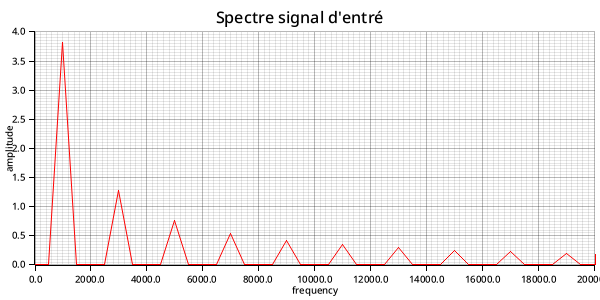
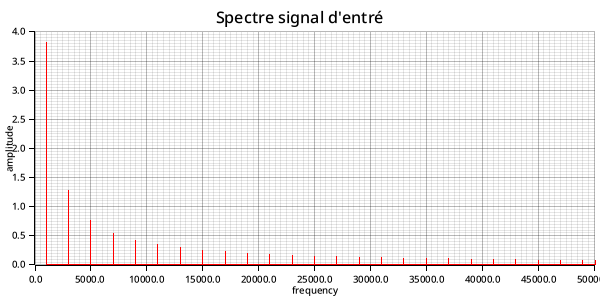
[CN5]: fix phase (for low,high,stop pass) so now everything finally works as expected for all filter!

diff --git a/CN_5_effet_filtrage/src/filtrage.rs b/CN_5_effet_filtrage/src/filtrage.rs
@@ -3,7 +3,7 @@ use std::{f64::consts::PI, ops::Range};
 use crate::{
     fft::{compute_fft, evaluation_point, generate_signal, FFTResult, XyScatter},
     filtre::{FiltreCaracteristique, FiltreTrait},
-    plot::draw_plot,
+    plot::{draw_fft, draw_plot},
 };
 
 pub struct FiltrageReport {
@@ -24,22 +24,17 @@ pub fn filtrage<T: FiltreTrait>(
     n: usize,
     width_graph: &Range<f64>,
     width_frequence: &Range<f64>,
-    dephasage: bool,
     offset: Option<f64>,
 ) -> FiltrageReport {
     let signal_in = evaluation_point(n, width_graph, signal);
-    let FFTResult {
-        fft_amp: fft_in,
-        peaks,
-        ..
-    } = compute_fft(&signal_in, width_graph);
+    let FFTResult { peaks: fft_in, .. } = compute_fft(&signal_in, width_graph);
 
-    let out_signal_info = peaks
-        .into_iter()
-        .map(|(_, (f, amp))| {
+    let out_signal_info = fft_in
+        .iter()
+        .map(|&(f, amp)| {
             let amp_out = amp * filtre.gain_at(f);
             let phase_out = filtre.phase_at(f);
-            (f, amp_out, if dephasage { phase_out } else { 0.0 })
+            (f, amp_out, phase_out)
         })
         .collect::<Vec<_>>();
 
@@ -47,14 +42,14 @@ pub fn filtrage<T: FiltreTrait>(
     let signal_out = evaluation_point(n, width_graph, &signal_out_func);
     let fft_res_out = compute_fft(&signal_out, width_graph);
 
-    let gain_graph = filtre.gain_graph(n, width_frequence); // range should be the same as the frequence max
+    let gain_graph = filtre.gain_graph(n, width_frequence);
     let phase_graph = filtre.phase_graph(n, width_frequence);
 
     FiltrageReport {
         signal_input: signal_in,
         signal_ouput: signal_out,
         fft_input: fft_in,
-        fft_output: fft_res_out.fft_amp,
+        fft_output: fft_res_out.peaks,
         gain_graph,
         phase_graph,
         filtre_caracteristique: filtre.get_caracteristique(),
@@ -78,22 +73,18 @@ pub fn draw_filtrage(report: &FiltrageReport) {
         vec![&report.signal_input, &report.signal_ouput],
     )
     .expect("Failed to plot");
-    draw_plot(
+    draw_fft(
         "filtrage/fft_in.png",
         "Spectre signal d'entré",
         report.width_frequence.clone(),
-        ("frequency", "amplitude"),
-        Some((600, 300)),
-        vec![&report.fft_input],
+        &report.fft_input,
     )
     .expect("Failed to plot");
-    draw_plot(
+    draw_fft(
         "filtrage/fft_out.png",
         "Spectre signal de sortie",
         report.width_frequence.clone(),
-        ("frequency", "amplitude"),
-        Some((600, 300)),
-        vec![&report.fft_output],
+        &report.fft_output,
     )
     .expect("Failed to plot");
     draw_plot(
@@ -106,8 +97,22 @@ pub fn draw_filtrage(report: &FiltrageReport) {
         ),
         report.width_frequence.clone(),
         ("frequency", "gain"),
-        None,
+        Some((600, 300)),
         vec![&report.gain_graph],
+    )
+    .expect("Failed to plot");
+    draw_plot(
+        "filtrage/phase.png",
+        &format!(
+            "Phase du filtre {:?} avec f0={}Hz Q={}",
+            report.filtre_caracteristique.filtre_type,
+            (report.filtre_caracteristique.omega0 / (2.0 * PI)).round(),
+            report.filtre_caracteristique.q,
+        ),
+        report.width_frequence.clone(),
+        ("frequency", "phase"),
+        Some((600, 300)),
+        vec![&report.phase_graph],
     )
     .expect("Failed to plot");
 }

diff --git a/CN_5_effet_filtrage/src/main.rs b/CN_5_effet_filtrage/src/main.rs
@@ -28,16 +28,8 @@ fn main() {
     const N: usize = 2_usize.pow(14) - 1;
     const WIDTH: Range<f64> = 0.0..0.002;
     let in_signal = generate_square_wave(1000.0, -2.0..4.0);
-    let filtre = FiltreRejecteur::new(1.0, 1.0 * 1000.0, 0.2);
-    let report = filtrage(
-        &in_signal,
-        &filtre,
-        N,
-        &WIDTH,
-        &(0.0..20_000.0),
-        false,
-        Some(1.0),
-    );
+    let filtre = FiltreRejecteur::new(1.0, 25.0 * 1000.0, 20.0);
+    let report = filtrage(&in_signal, &filtre, N, &WIDTH, &(0.0..50_000.0), Some(1.0));
     draw_filtrage(&report);
 }
 
@@ -49,10 +41,7 @@ fn test_square_from_fft() {
     let FFTResult { peaks, .. } = compute_fft(&signal_in, &WIDTH);
 
     let signal_out_func = generate_signal(
-        peaks
-            .into_iter()
-            .map(|(_, (f, amp))| (f, amp, 0.0))
-            .collect(),
+        peaks.into_iter().map(|(f, amp)| (f, amp, 0.0)).collect(),
         None,
     );
     let signal_out = evaluation_point(N, &WIDTH, &signal_out_func);
@@ -73,21 +62,13 @@ fn filtrage_sinus_signal() {
     const WIDTH: Range<f64> = 0.0..0.010;
     let in_signal = generate_signal(vec![(200.0, 1.0, 0.0), (1800.0, 1.0, 0.0)], None);
     let coupe_bande = FiltreRejecteur::new(1.0, 200.0, 0.2);
-    let report = filtrage(
-        &in_signal,
-        &coupe_bande,
-        N,
-        &WIDTH,
-        &(0.0..2000.0),
-        true,
-        None,
-    );
+    let report = filtrage(&in_signal, &coupe_bande, N, &WIDTH, &(0.0..2000.0), None);
     draw_filtrage(&report);
 }
 
 fn plot_gain_phase() {
     const N: usize = 5000;
-    const WIDTH: Range<f64> = 0.0..20_000.0;
+    const WIDTH: Range<f64> = 0.0..5_000.0;
 
     let passe_haut = FiltrePasseHaut2nd::new(1.0, 1000.0, 10.0);
     let ph_gpoints = passe_haut.gain_graph(N, &WIDTH);

diff --git a/CN_5_effet_filtrage/src/filtre.rs b/CN_5_effet_filtrage/src/filtre.rs
@@ -151,9 +151,9 @@ impl FiltreTrait for FiltrePasseHaut2nd {
             unreachable!("Arg(0) is not defined")
         };
         let phic = if pulsation < self.omega0 {
-            -(x * (1.0 / self.q) / (1.0 - x)).atan()
+            -(x * (1.0 / self.q) / (1.0 - x.powi(2))).atan()
         } else if pulsation > self.omega0 {
-            -PI - (x * (1.0 / self.q) / (1.0 - x)).atan()
+            -PI - (x * (1.0 / self.q) / (1.0 - x.powi(2))).atan()
         } else if pulsation == self.omega0 {
             -PI / 2.0
         } else {
@@ -197,9 +197,9 @@ impl FiltreTrait for FiltrePasseBas2nd {
         let pulsation = 2.0 * PI * f;
         let x = pulsation / self.omega0;
         if pulsation < self.omega0 {
-            -(x * (1.0 / self.q) / (1.0 - x)).atan()
+            -(x * (1.0 / self.q) / (1.0 - x.powi(2))).atan()
         } else if pulsation > self.omega0 {
-            -PI - (x * (1.0 / self.q) / (1.0 - x)).atan()
+            -PI - (x * (1.0 / self.q) / (1.0 - x.powi(2))).atan()
         } else if pulsation == self.omega0 {
             -PI / 2.0
         } else {
@@ -298,10 +298,8 @@ impl FiltreTrait for FiltreRejecteur {
     fn phase_at(&self, f: f64) -> f64 {
         let pulsation = 2.0 * PI * f;
         let x = pulsation / self.omega0;
-        if pulsation < self.omega0 {
-            -(x * (1.0 / self.q) / (1.0 - x)).atan()
-        } else if pulsation > self.omega0 {
-            -PI - (x * (1.0 / self.q) / (1.0 - x)).atan()
+        if pulsation != self.omega0 {
+            -(x * (1.0 / self.q) / (1.0 - x.powi(2))).atan()
         } else if pulsation == self.omega0 {
             -PI / 2.0
         } else {

diff --git a/CN_5_effet_filtrage/src/plot.rs b/CN_5_effet_filtrage/src/plot.rs
@@ -4,6 +4,32 @@ use plotters::prelude::*;
 
 use crate::fft::XyScatter;
 
+fn fft_points_to_vertical_lines(fft_points: &XyScatter) -> XyScatter {
+    let mut out: XyScatter = vec![];
+    for &(f, amp) in fft_points {
+        out.push((f, 0.0));
+        out.push((f, amp));
+        out.push((f, 0.0));
+    }
+    out
+}
+
+pub fn draw_fft(
+    filename: &str,
+    caption: &str,
+    width: Range<f64>,
+    peaks: &XyScatter,
+) -> Result<(), Box<dyn std::error::Error>> {
+    draw_plot(
+        filename,
+        caption,
+        width,
+        ("frequency", "amplitude"),
+        Some((600, 300)),
+        vec![&fft_points_to_vertical_lines(peaks)],
+    )
+}
+
 pub fn draw_plot(
     filename: &str,
     caption: &str,
@@ -48,8 +74,8 @@ pub fn draw_plot(
         .x_label_area_size(30)
         .y_label_area_size(30)
         .build_cartesian_2d(
-            (width.start as f32)..(width.end as f32),
-            (min_y.unwrap().floor() as f32)..(max_y.unwrap().ceil() as f32),
+            (width.start)..(width.end),
+            (min_y.unwrap().floor())..(max_y.unwrap().ceil()),
         )?;
 
     chart
@@ -58,10 +84,10 @@ pub fn draw_plot(
         .y_desc(legend_y)
         .draw()?;
 
-    const COLORS: [RGBColor; 7] = [RED, GREEN, BLACK, BLUE, YELLOW, CYAN, MAGENTA];
+    const COLORS: [RGBColor; 7] = [RED, BLUE, GREEN, BLACK, YELLOW, CYAN, MAGENTA];
     for (i, datas) in lines.iter().enumerate() {
         chart.draw_series(LineSeries::new(
-            datas.iter().map(|&(x, y)| (x as f32, y as f32)),
+            datas.iter().map(|&(x, y)| (x, y)),
             &COLORS[i],
         ))?;
     }

diff --git a/CN_5_effet_filtrage/src/fft.rs b/CN_5_effet_filtrage/src/fft.rs
@@ -59,7 +59,8 @@ pub fn generate_triangle_wave(f: f64, minmax: Range<f64>) -> Box<dyn Fn(f64) -> 
     })
 }
 
-fn extract_peaks(fft_points: &XyScatter) -> Vec<(usize, (f64, f64))> {
+/// returns: (index_in_original_array, (f, amp))
+fn extract_peaks(fft_points: &XyScatter) -> XyScatter {
     let only_amp = fft_points.iter().map(|(_, y)| *y).collect::<Vec<f64>>();
     let fp = PeakFinder::new(&only_amp);
 
@@ -69,15 +70,17 @@ fn extract_peaks(fft_points: &XyScatter) -> Vec<(usize, (f64, f64))> {
         .map(|p| {
             let i = p.middle_position();
             let fftp = fft_points[i];
-            (i, fftp)
+            fftp
         })
         .collect()
 }
 
 pub struct FFTResult {
+    /// raw data, see peaks for postprocessed datas
     pub fft_amp: XyScatter,
     pub fft_phase: XyScatter,
-    pub peaks: Vec<(usize, (f64, f64))>,
+    /// "real" fft result: Vec<(f, amp)>
+    pub peaks: XyScatter,
 }
 
 pub fn compute_fft(points: &XyScatter, width: &Range<f64>) -> FFTResult {
@@ -114,19 +117,8 @@ pub fn compute_fft(points: &XyScatter, width: &Range<f64>) -> FFTResult {
         .collect::<XyScatter>();
 
     let peaks_amp = extract_peaks(&fft_amp);
-    let unnoised_amp = fft_amp
-        .iter()
-        .map(|(x, y)| {
-            if peaks_amp.iter().any(|(_, (f, amp))| (f, amp) == (x, y)) {
-                (*x, *y)
-            } else {
-                (*x, 0.0)
-            }
-        })
-        .collect::<XyScatter>();
-
     FFTResult {
-        fft_amp: unnoised_amp,
+        fft_amp,
         fft_phase,
         peaks: peaks_amp,
     }
